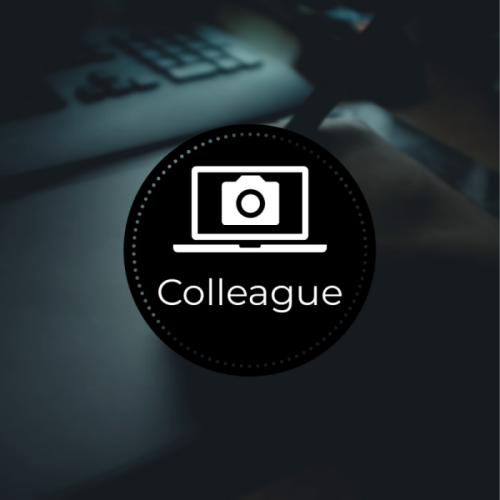
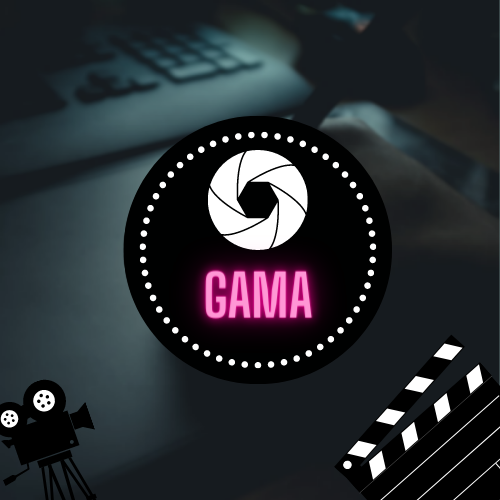
GAMA

diff --git a/admin/interface3.py b/admin/interface3.py
@@ -29,24 +29,24 @@ class interface_3:
         head = Label(self.root, text="Menu", font=('Helvetica', 18, 'bold', 'underline'), bg='black', fg='white')
         head.place(x=460, y=40)
         # BUTTON
-        project = Button(self.root, text="Project list", width=20, height=2, bg='black', fg='white',
+        project = Button(self.root, text="Rooms list", width=20, height=2, bg='black', fg='white',
                          font=('Helvetica', 11, 'bold'),
                          command=project_manger.proj_list)
         project.place(x=0, y=390)
-        emp = Button(self.root, text="Employee Performance", width=20, height=2, bg='black', fg='white',
+        emp = Button(self.root, text="User perf", width=20, height=2, bg='black', fg='white',
                      font=('Helvetica', 11, 'bold'), command=employee_manger.emp_performance_set)
         emp.place(x=0, y=75)
-        add = Button(self.root, text="Add Employee", width=20, height=2, bg='black', fg='white',
+        add = Button(self.root, text="Add user", width=20, height=2, bg='black', fg='white',
                      font=('Helvetica', 11, 'bold'), command=employee_manger.add_emp)
         add.place(x=0, y=120)
-        remove = Button(self.root, text="Remove  Employee", width=20, height=2, bg='black', fg='white',
+        remove = Button(self.root, text="Remove  User", width=20, height=2, bg='black', fg='white',
                         font=('Helvetica', 11, 'bold'),
                         command=employee_manger.del_emp)
         remove.place(x=0, y=165)
-        assign = Button(self.root, text="Add Project", width=20, height=2, bg='black', fg='white',
+        assign = Button(self.root, text="Add Room", width=20, height=2, bg='black', fg='white',
                         font=('Helvetica', 11, 'bold'), command=project_manger.add_new_project)
         assign.place(x=0, y=210)
-        emp_grade = Button(self.root, text="Employee Ranking", width=20, height=2, bg='black', fg='white',
+        emp_grade = Button(self.root, text="Room List", width=20, height=2, bg='black', fg='white',
                            font=('Helvetica', 11, 'bold'), command=employee_manger.complete_emp_list)
         emp_grade.place(x=0, y=255)
         search = Button(self.root, text="Search", width=20, height=2, bg='black', fg='white',
@@ -73,19 +73,19 @@ class interface_3:
                                 font=('Helvetica', 11, 'bold'), command=self.site)
         self.site_down.place(x=810, y=164)
 
-        emp_working = Label(text="No. of emp working   :", font=('Helvetica', 11, 'bold'), fg="white", bg="black")
+        emp_working = Label(text="No. of Active user   :", font=('Helvetica', 11, 'bold'), fg="white", bg="black")
         emp_working.place(x=300, y=80)
         emp_working_fd = Entry(self.root)
         emp_working_fd.place(x=500, y=80)
         emp_working_fd.insert(END, self.e.get_no_of_emp())
 
-        total_proj = Label(text="Total no of project     :", font=('Helvetica', 11, 'bold'), fg="white", bg="black")
+        total_proj = Label(text="Total no of Active Room     :", font=('Helvetica', 11, 'bold'), fg="white", bg="black")
         total_proj.place(x=300, y=110)
         total_proj_fd = Entry(self.root)
         total_proj_fd.place(x=500, y=110)
         total_proj_fd.insert(END, self.p.get_no_of_proj())
 
-        total_proj_active = Label(text="Completed project     :", font=('Helvetica', 11, 'bold'), fg="white",
+        total_proj_active = Label(text="Finished Rooms     :", font=('Helvetica', 11, 'bold'), fg="white",
                                   bg="black")
         total_proj_active.place(x=300, y=140)
         total_proj_active_fd = Entry(self.root)
@@ -98,7 +98,7 @@ class interface_3:
         dropbox_token_fd.place(x=500, y=170)
         dropbox_token_fd.insert(END, self.c.token)
 
-        database_check_employee = Label(text="Emp database check :", font=('Helvetica', 11, 'bold'), fg="white",
+        database_check_employee = Label(text="User database check :", font=('Helvetica', 11, 'bold'), fg="white",
                                         bg="black")
         database_check_employee.place(x=300, y=200)
         database_check_employee_fd = Entry(self.root)
@@ -108,7 +108,7 @@ class interface_3:
         else:
             database_check_employee_fd.insert(END, "Not connected")
 
-        database_check_project = Label(text="Proj database check  :", font=('Helvetica', 11, 'bold'), fg="white",
+        database_check_project = Label(text="Rooms database check  :", font=('Helvetica', 11, 'bold'), fg="white",
                                        bg="black")
         database_check_project.place(x=300, y=230)
         database_check_project_fd = Entry(self.root)
@@ -118,7 +118,7 @@ class interface_3:
         else:
             database_check_project_fd.insert(END, "Not connected")
 
-        database_check_salary = Label(text="Sal database check    :", font=('Helvetica', 11, 'bold'), fg="white",
+        database_check_salary = Label(text="Files database check    :", font=('Helvetica', 11, 'bold'), fg="white",
                                       bg="black")
         database_check_salary.place(x=300, y=260)
         database_check_salary_fd = Entry(self.root)
@@ -143,15 +143,14 @@ class interface_3:
                         command=employee_manger.full_list_upload_download)
         commit.place(x=810, y=75)
 
-        commit = Button(self.root, text="Attendance", width=20, height=2, bg='black', fg='white',
+        commit = Button(self.root, text="Activity", width=20, height=2, bg='black', fg='white',
                         font=('Helvetica', 11, 'bold'),
                         command=employee_manger.attendance_cntrl)
         commit.place(x=810, y=300)
 
-        colleague_info = Label(text="Colleague(Limited user) v2.0\n(Class implementation,Proctoring,Conflict "
+        colleague_info = Label(text="GAMA(Limited user) \n(Class implementation,Proctoring,Conflict "
                                     "handling)\nServices used "
-                                    ":Cloud(Dropbox)\nProctoring:OpenCv\nDevelopers:\nAdarsh Singh\nAbhay Pratap "
-                                    "Singh\nGyan Prakash Kushwaha\nAkhilesh Kumar",
+                                    ":Cloud(Dropbox)",
                                bg='black', fg='white', font=('Helvetica', 11, 'bold'))
         colleague_info.place(x=310, y=300)
         self.root.mainloop()

diff --git a/employee/user_start_4.py b/employee/user_start_4.py
@@ -47,13 +47,13 @@ class user_start:
         user_name = Entry(self.root)
         user_join_lb = Label(text="Joined on :", fg="white", bg="black")
         user_join = Entry(self.root)
-        grade_lb = Label(text="Grade :", fg="white", bg="black")
+        grade_lb = Label(text="Capacity :", fg="white", bg="black")
         grade = Entry(self.root)
 
-        sal_lb = Label(self.root, text="Your salary will be in range: ", font=('Helvetica', 18, 'bold'), fg="white",
+        sal_lb = Label(self.root, text="Watching hours : ", font=('Helvetica', 18, 'bold'), fg="white",
                        bg="black")
-        start_lb = Label(text="Start from  :")
-        end_lb = Label(text="Upto           :")
+        start_lb = Label(text=":")
+        end_lb = Label(text="        :")
         file_lb = Label(text="Project", font=('Helvetica', 20, 'bold'), fg="white", bg="black")
         feedback_lb = Label(text="Feedback:(For last submission)", font=('Helvetica', 15, 'bold'))
         start = Entry(self.root)
@@ -87,14 +87,14 @@ class user_start:
         user_join.place(x=590, y=0)
         grade_lb.place(x=775, y=0)
         grade.place(x=825, y=0)
-        sal_lb.place(x=0, y=30)
-        start_lb.place(x=0, y=70)
-        end_lb.place(x=0, y=92)
-        start.place(x=75, y=70)
-        end.place(x=75, y=92)
+        #sal_lb.place(x=0, y=30)
+        #start_lb.place(x=0, y=70)
+        #end_lb.place(x=0, y=92)
+        #start.place(x=75, y=70)
+        #end.place(x=75, y=92)
         upload.place(x=400, y=70)
         download.place(x=600, y=70)
-        file_lb.place(x=550, y=30)
+        #file_lb.place(x=550, y=30)
         feedback.place(x=2, y=160)
         feedback.place(width=300, height=218)
         feedback_lb.place(x=0, y=130)
@@ -104,7 +104,7 @@ class user_start:
         project = Label(text="Project Details", font=('Helvetica', 16, 'bold', 'underline'))
         project.place(x=620, y=130)
         # LABEL
-        project1 = Label(text="\n    Active project  :\t\t\t\t   \n\n\tDue to  :\t\t\t\t   \n\n\tStatus :\t\t\t\t "
+        project1 = Label(text="\n    Active Room  :\t\t\t\t   \n\n\tDue to  :\t\t\t\t   \n\n\tStatus :\t\t\t\t "
                               "\n\n\tLast file upload :\t\t\t\t\t\n", font=('Helvetica', 12, 'bold'), anchor="s",
                          borderwidth=2, relief="solid")
         project1.place(x=440, y=160)
@@ -142,9 +142,9 @@ class user_start:
                 project_due.insert(END, proj_list[3])
                 project_active.insert(END, proj_list[1])
             except:
-                project_status.insert(END, "No project")
-                project_due.insert(END, "No project")
-                project_active.insert(END, "No project")
+                project_status.insert(END, "No Room")
+                project_due.insert(END, "No Room")
+                project_active.insert(END, "No Room")
             if x[7] == "No Feedback":
                 feedback.insert(END, "No Feedback")
             else:

diff --git a/admin/employee_manger.py b/admin/employee_manger.py
@@ -294,19 +294,19 @@ class emp_performance_set:
         self.root.title(" EMPLOYEE PERFORMANCE")
 
         # LAYOUT
-        self.emp_id_lb = Label(self.root, text="Employee id *")
+        self.emp_id_lb = Label(self.root, text="User id *")
         self.emp_id_lb.place(x=1, y=1)
         self.emp_id = Entry(self.root)
         self.emp_id.place(x=150, y=1)
-        self.emp_name = Label(self.root, text="Employee Name *")
+        self.emp_name = Label(self.root, text="Admin Name *")
         self.emp_name.place(x=1, y=30)
         self.emp_name_fd = Entry(self.root)
         self.emp_name_fd.place(x=150, y=30)
-        self.emp_project = Label(self.root, text="Employee Project")
+        self.emp_project = Label(self.root, text="No of room")
         self.emp_project.place(x=1, y=60)
         self.emp_project_fd = Entry(self.root)
         self.emp_project_fd.place(x=150, y=60)
-        self.emp_grade = Label(self.root, text="Employee Grade ")
+        self.emp_grade = Label(self.root, text="Capacity ")
         self.emp_grade.place(x=1, y=90)
         self.emp_grade_fd = Entry(self.root)
         self.emp_grade_fd.place(x=150, y=90)
@@ -341,7 +341,7 @@ class emp_performance_set:
                 sync(0)
             except Exception as e:
                 print(e)
-                self.response.config(text="error!!!!!")
+                self.response.config(text="*****")
 
     def out(self):
         self.root.destroy()
@@ -439,10 +439,10 @@ class complete_emp_list:
         n.grid(row=0, column=6)
         m.insert(END, "Activity")
         n.insert(END, "Activity_no")
-        f.insert(END, "EMP-ID")
-        g.insert(END, "Name")
-        h.insert(END, "Projects")
-        k.insert(END, "Grade")
+        f.insert(END, "USER-ID")
+        g.insert(END, "ADMIN")
+        h.insert(END, "ROOM")
+        k.insert(END, "LIMIT")
         l.insert(END, "Join_Date")
         for employee in cursor:
             for j in range(len(employee)):

diff --git a/employee/server.py b/employee/server.py
@@ -1,0 +1,40 @@
+
+
+# This code is for the server 
+# Lets import the libraries
+import socket, cv2, pickle, struct, imutils
+
+# Socket Create
+server_socket = socket.socket(socket.AF_INET, socket.SOCK_STREAM)
+host_name = socket.gethostname()
+host_ip = socket.gethostbyname(host_name)
+print('HOST IP:', host_ip)
+port = 9999
+socket_address = (host_ip, port)
+
+# Socket Bind
+server_socket.bind(socket_address)
+
+# Socket Listen
+server_socket.listen(5)
+print("LISTENING AT:", socket_address)
+
+# Socket Accept
+while True:
+    client_socket, addr = server_socket.accept()
+    print('GOT CONNECTION FROM:', addr)
+    if client_socket:
+        vid = cv2.VideoCapture(0)
+
+        while (vid.isOpened()):
+            img, frame = vid.read()
+            frame = imutils.resize(frame, width=320)
+            a = pickle.dumps(frame)
+            message = struct.pack("Q", len(a)) + a
+            client_socket.sendall(message)
+
+            cv2.imshow('TRANSMITTING VIDEO', frame)
+            key = cv2.waitKey(1) & 0xFF
+            if key == ord('q'):
+                client_socket.close()
+

diff --git a/admin/file.py b/admin/file.py
@@ -87,7 +87,11 @@ class file_interface_download:
         self.get_f = tkinter.Label(self.root, text="Get available files", font=('Helvetica', 12, "bold"))
         self.get_f.place(x=80, y=0)
         self.var = tkinter.StringVar(self.root)
-        self.get_file_fd = tkinter.OptionMenu(self.root, self.var, *list_files)
+        try:
+            self.get_file_fd = tkinter.OptionMenu(self.root, self.var, *list_files)
+        except Exception as e:
+            print(e)
+            return
         self.get_file_fd.config(text="Avaialable files", width=28, height=1, font=('Helvetica', 12))
         self.get_file_fd.place(x=0, y=35)
         self.var.set("Avail files")

diff --git a/admin/interface2.py b/admin/interface2.py
@@ -74,7 +74,7 @@ class interface_2:
             self.text = "Your network is slow"
             staus = False
         else:
-            self.text = "* Denotes mandatory\n Collect you Password and \nEmp_id from Admin\n\nWelcome to Colleague"
+            self.text = "* Denotes mandatory\n Collect you Password and \nEmp_id from Admin\n\nWelcome to GAMA"
 
         call_id = 0
         self.root = Tk()

diff --git a/admin/start.py b/admin/start.py
@@ -9,7 +9,7 @@ class start_page_1:
         self.root.geometry("500x500")
         self.root.maxsize(500, 500)
         self.root.minsize(500, 500)
-        self.root.title("COLLEAGUE")
+        self.root.title("GAMA")
         photo = PhotoImage(file="asr.png")
         label = Button(image=photo, command=self.click)
         label.pack()
